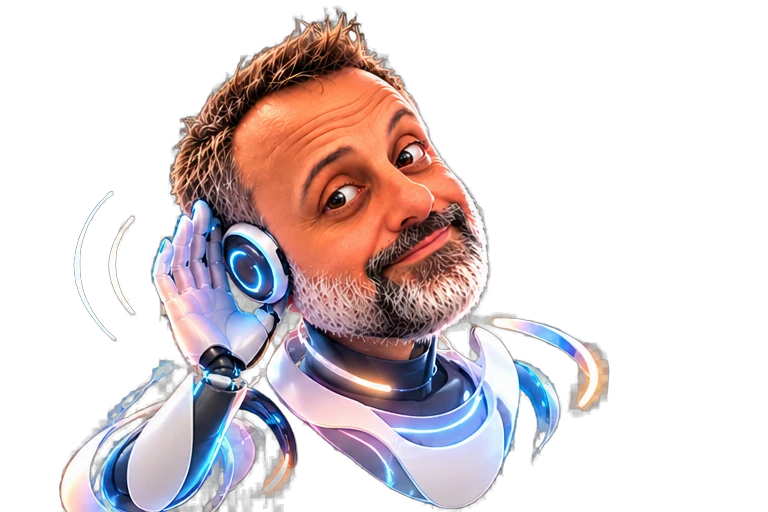
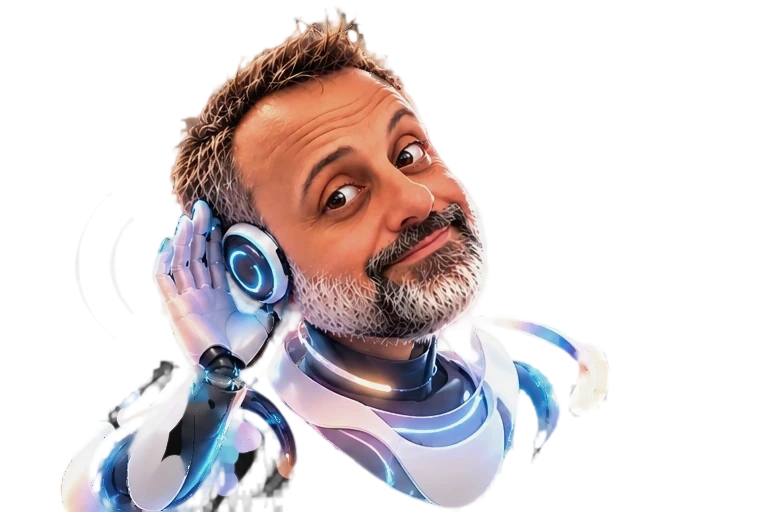
RoboGiuliano: immagini pulite (contorno, pelle e barba meno dipinte, colori più naturali)
Claude-Session: https://claude.ai/code/session_013piQbF956cycZkmWGrPqxn

diff --git a/CLAUDE.md b/CLAUDE.md
@@ -79,6 +79,9 @@
   microfono (`avviaVolume`, getUserMedia + AnalyserNode → `--vol`; se non va, nessun effetto); espressioni da parole della
   risposta (`umoreDi` → `data-umore` contenta/triste/sorpresa: Aurora occhi/sopracciglia/guance, robot luce verde/arancione/
   gialla, per 2,5 s dopo la risposta); luce del robot che pulsa a ogni parola. Scartato per ora: robot che sbattono le palpebre.
+- Immagini di RoboGiuliano pulite (dopo la 1.5, da pubblicare): con ChatGPT Giuliano non è riuscito a fare pose nuove, quindi
+  "opzione 1": contorno stretto di 1 px e sfumato, colori del bordo presi dall'interno, filtro bilaterale al 60%, colori -15%,
+  contrasto -5% (script nella sessione, non nel repo). Yaymaris lasciata com'è (era già pulita).
 
 ## Versioni e aggiornamenti
 - La versione è `version` in `package.json` (finisce nell'exe come `__VERSIONE__`).
